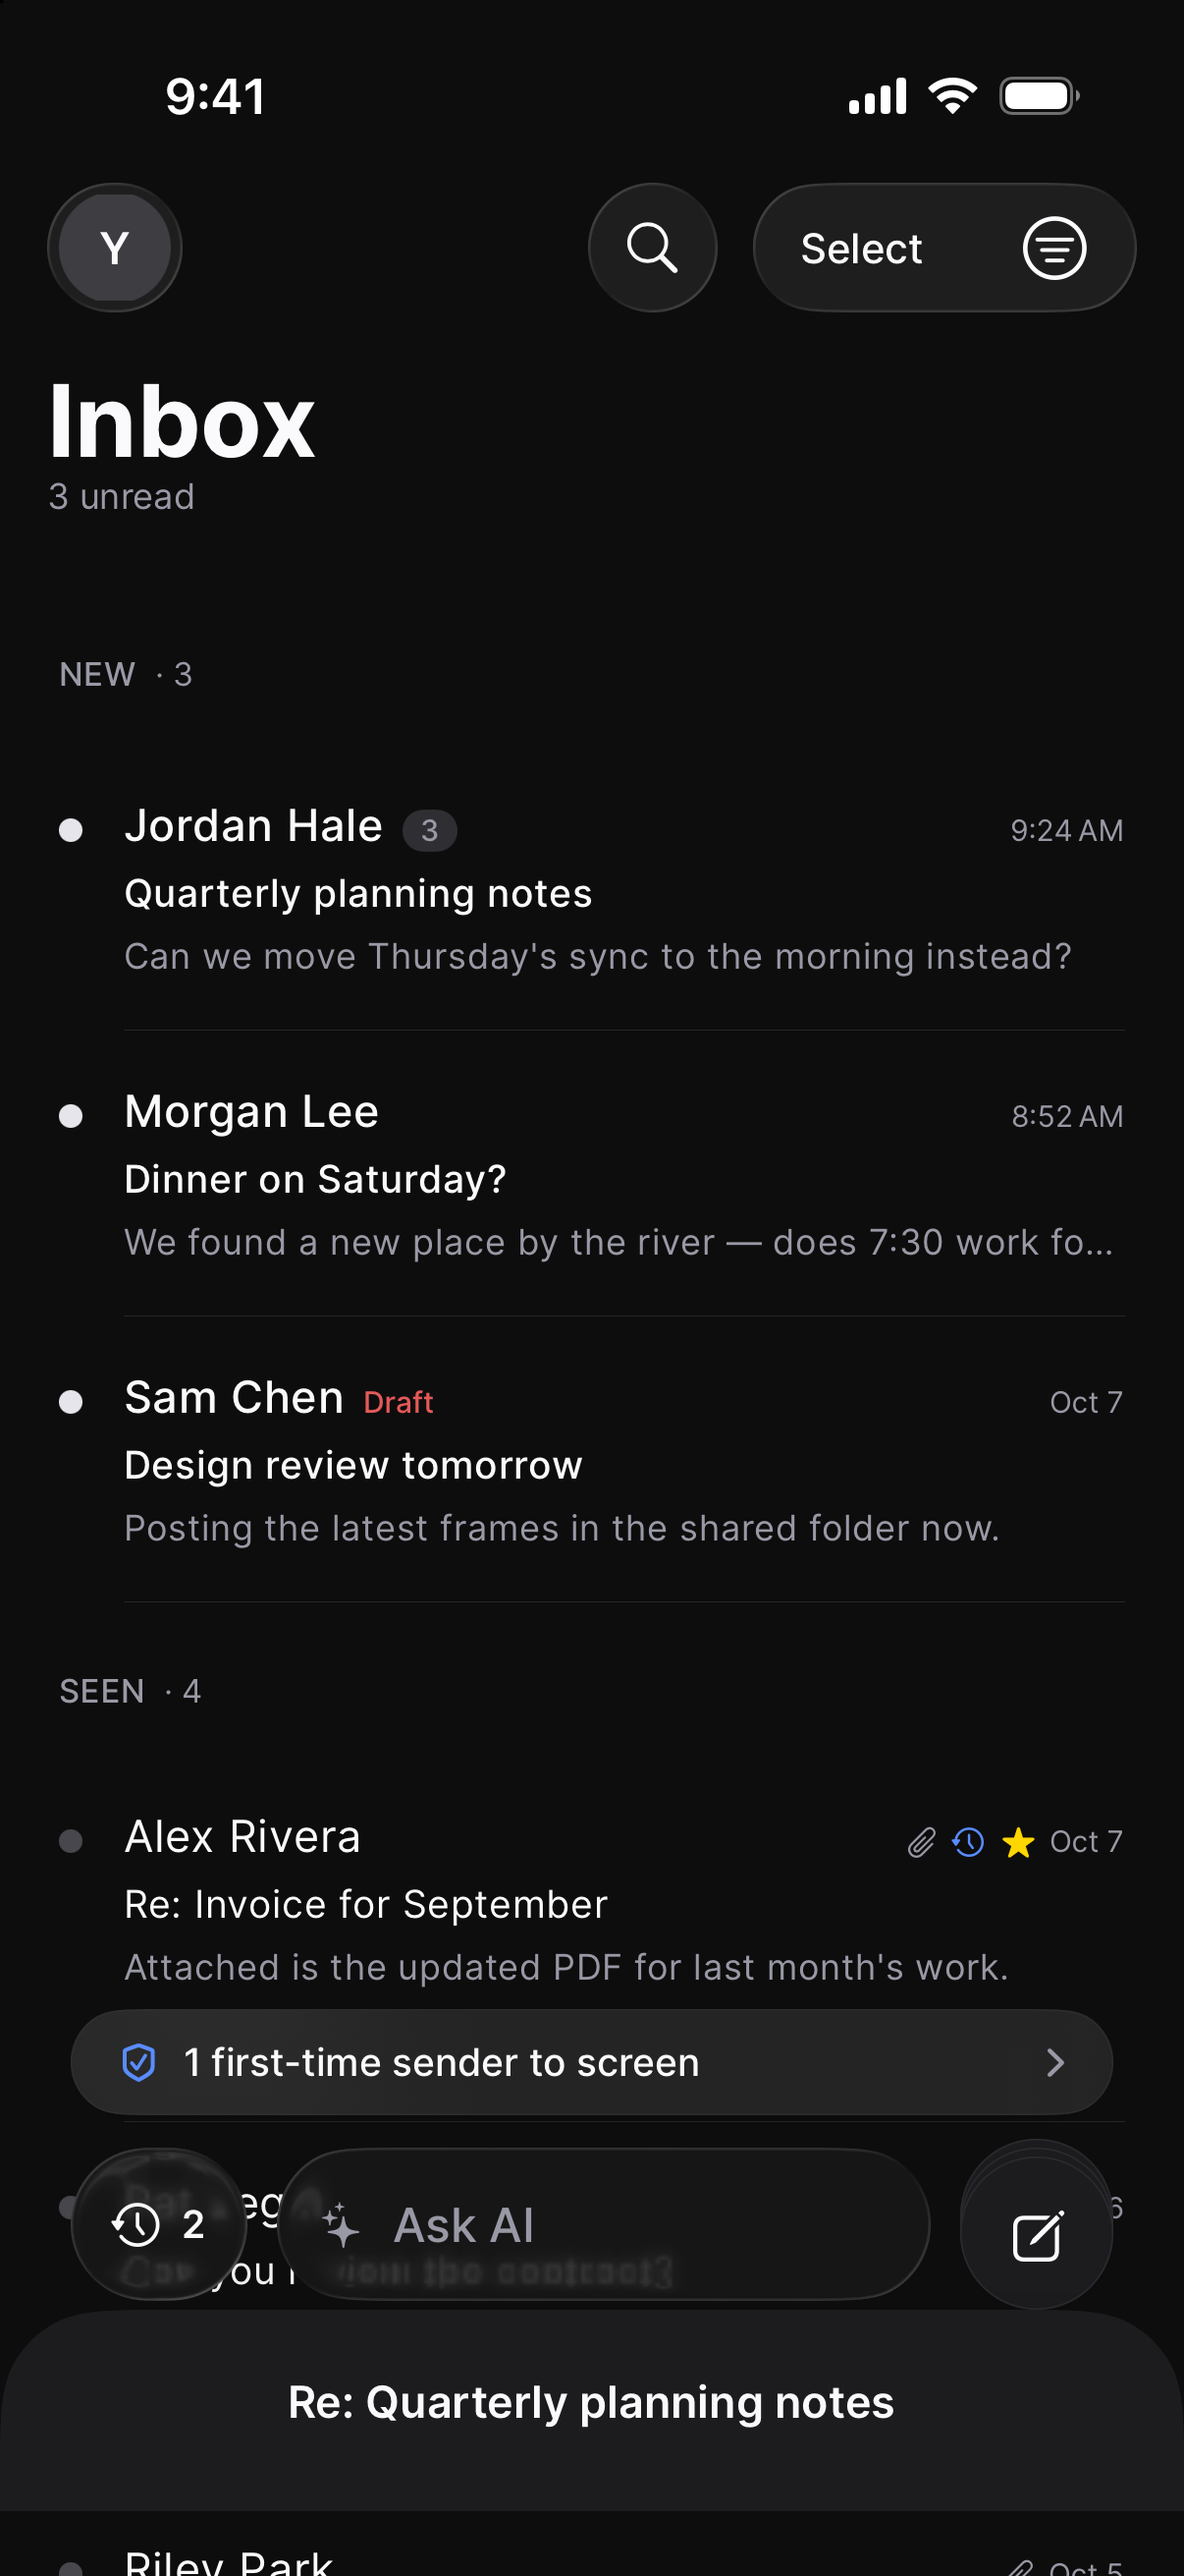
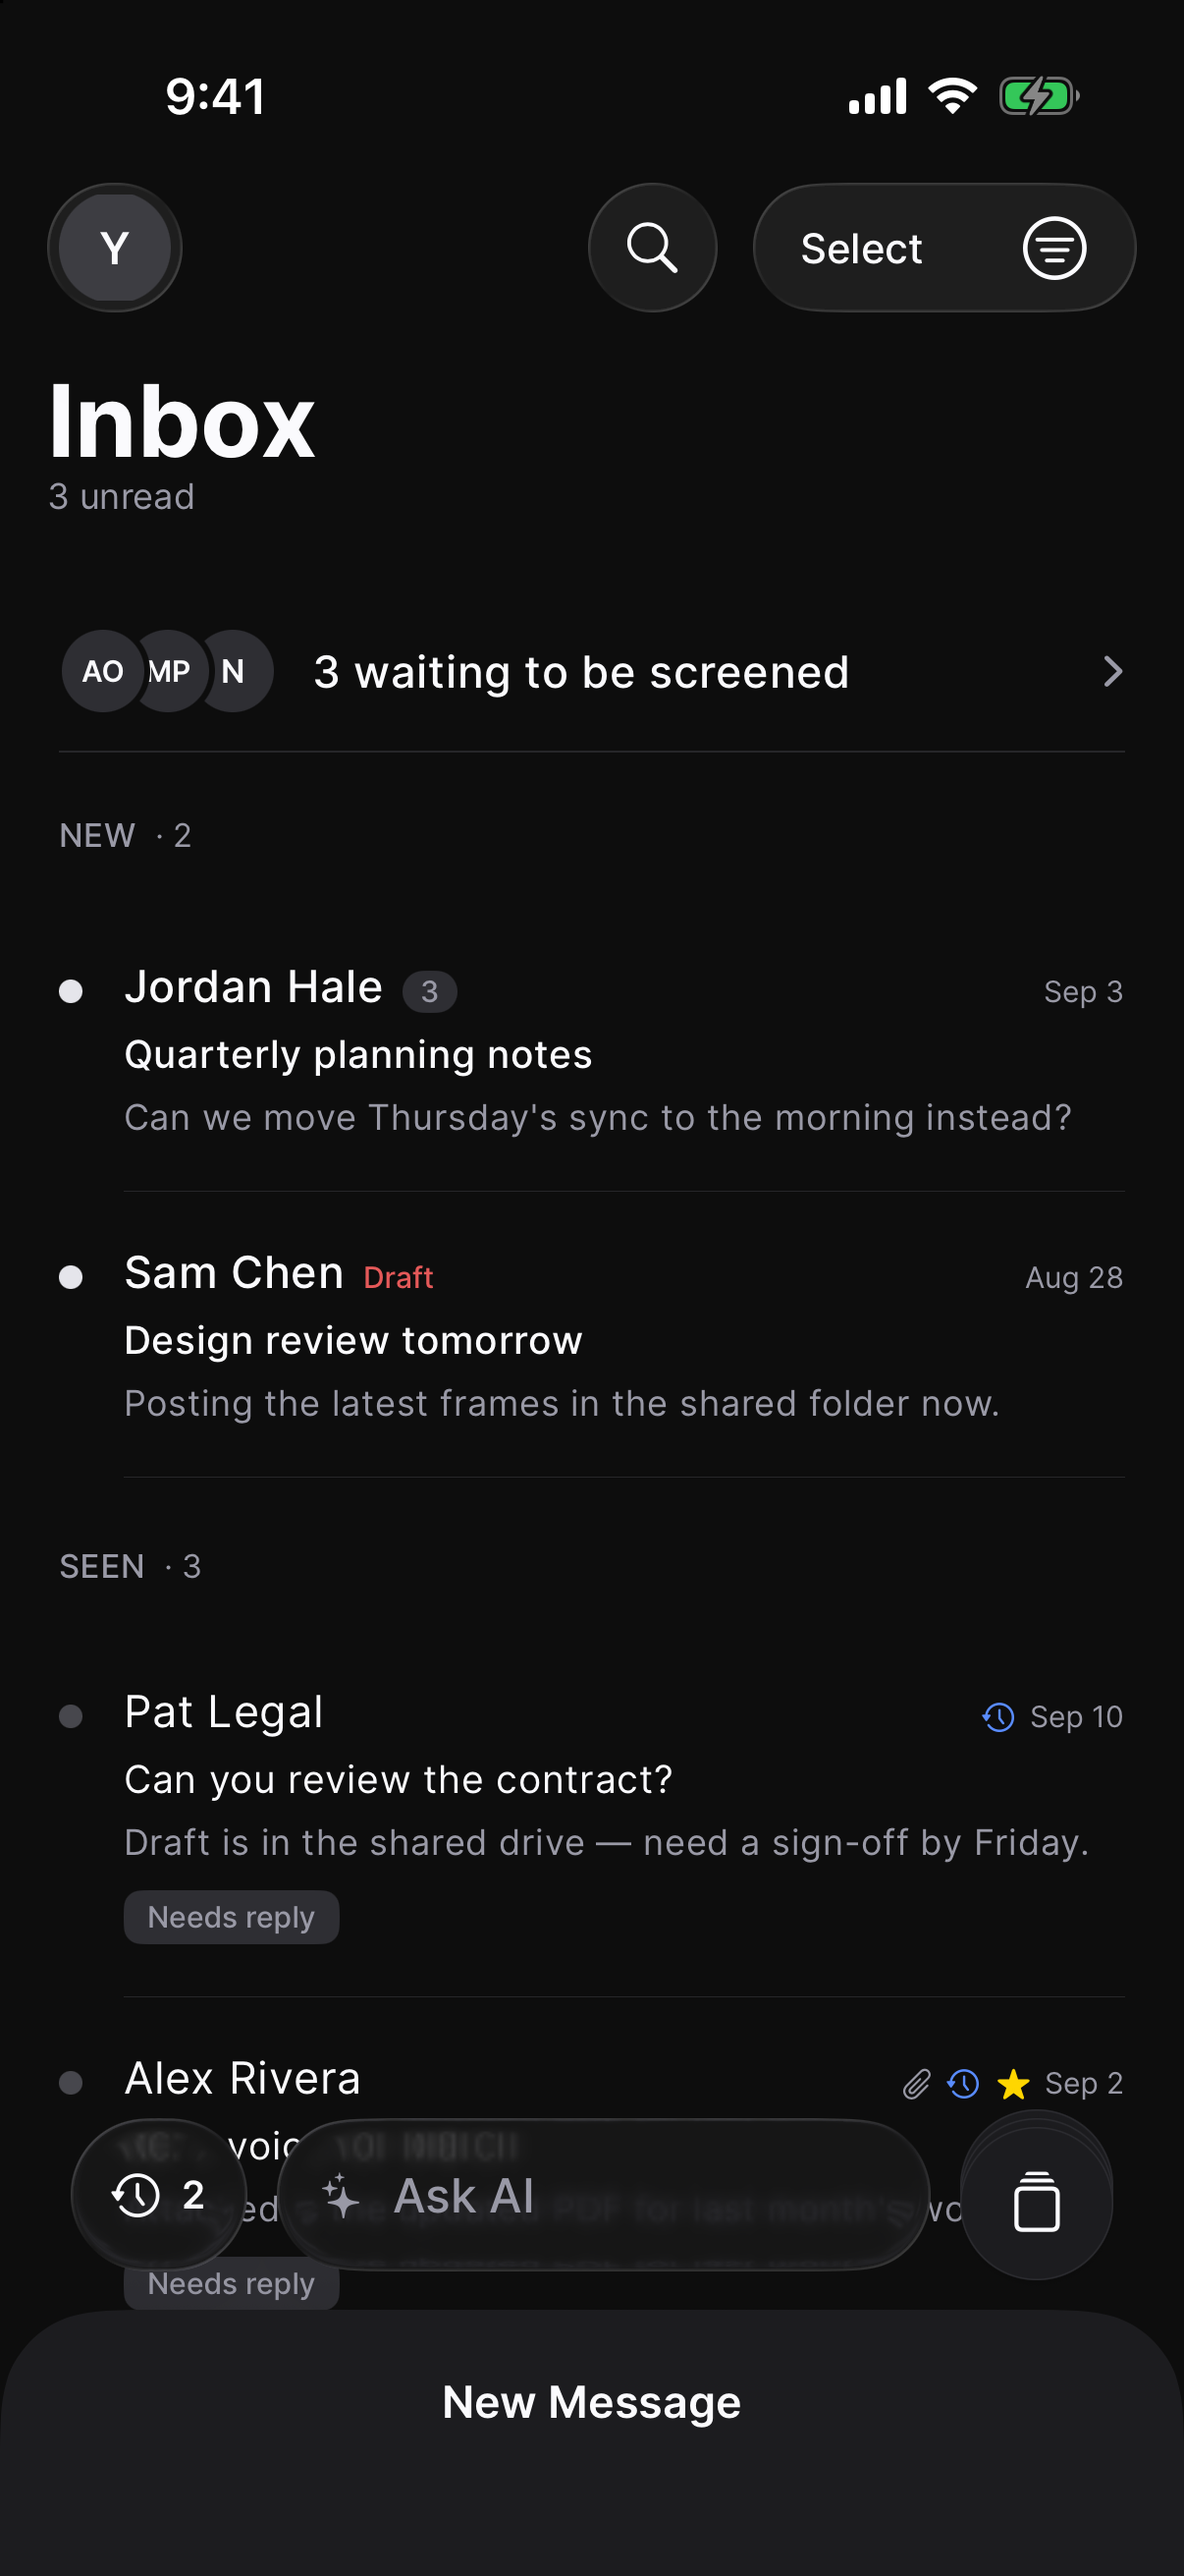
Site: re-shoot the compose-minimized still from dev
The dock now reaches the bottom of the screen (AVE-184). Shot from the
current dev fixture, which docks an untitled new message, so the alt text
follows.

diff --git a/site/src/data/media.ts b/site/src/data/media.ts
@@ -53,7 +53,7 @@ export const stills: Record<StillName, { alt: string }> = {
 		alt: "Replying on iPhone to Jordan Hale: “Re: Quarterly planning notes” with “9:30 works for me.”, and buttons for formatting and attachments.",
 	},
 	"compose-minimized": {
-		alt: "The Inbox on iPhone with a draft, “Re: Quarterly planning notes”, docked at the bottom of the screen.",
+		alt: "The Inbox on iPhone with a new message, still untitled, docked at the bottom of the screen.",
 	},
 	"action-menu": {
 		alt: "The corner button’s menu on iPhone, over a blurred Inbox: Settings, Trash, Archive, Drafts, Sent, Updates, Promotions, Screener, Inbox and Compose.",
